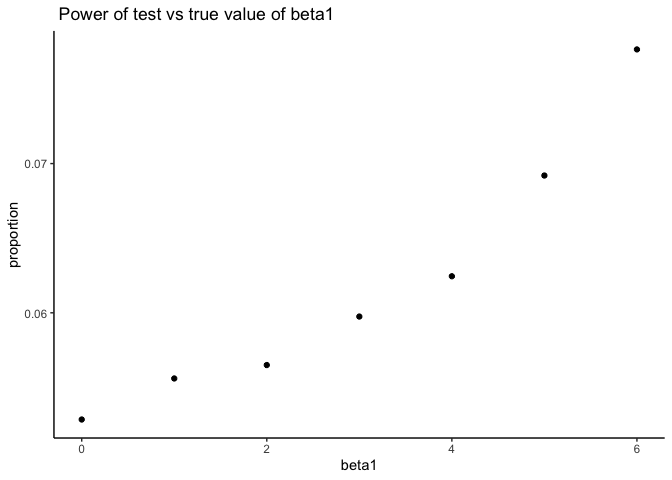
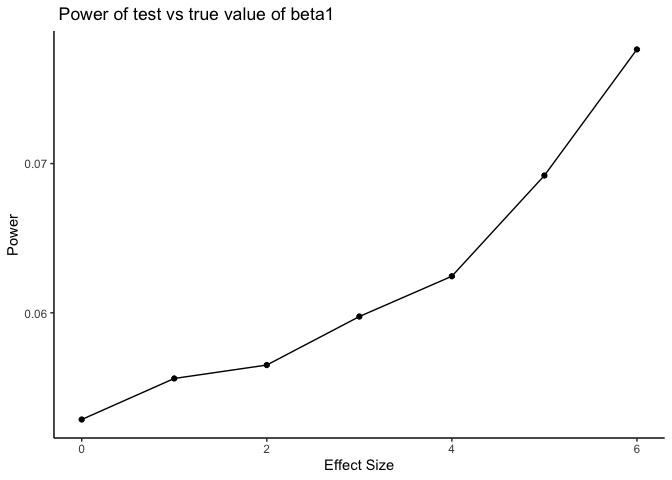
computer being wonky and deleting things once i type it. most recent version in case things get deleted

diff --git a/p8105_hw5_kzw2102.md b/p8105_hw5_kzw2102.md
@@ -49,6 +49,12 @@ output
     ## 10         4.9          3.1         3.77        0.1  setosa 
     ## # … with 140 more rows
 
+The new output dataframe contains 150 rows and 5 columns, where each row
+contains a unique value. Those originally with numeric values were
+replaced with the mean of the non-missing values and those originally
+with missing characters were replaced with “virginica”. Variables
+include identifiers for length of sepal, wdi,lp
+
 ## Problem 2
 
 ``` r
@@ -374,13 +380,16 @@ sim_results %>%
   summarize(
     total=n(),
     count_reject=sum(p.value<0.05),
-    proportion=count_reject/n()
+    proportion = count_reject/n()
   ) %>% 
   ggplot(aes(x=beta1, y=proportion)) +
   geom_point()+
+  geom_line()+
   theme_classic()+
   labs(
-    title = " Power of test vs true value of beta1 "
+    title = " Power of test vs true value of beta1",
+    x="Effect Size",
+    y= "Power"
   )
 ```
 
